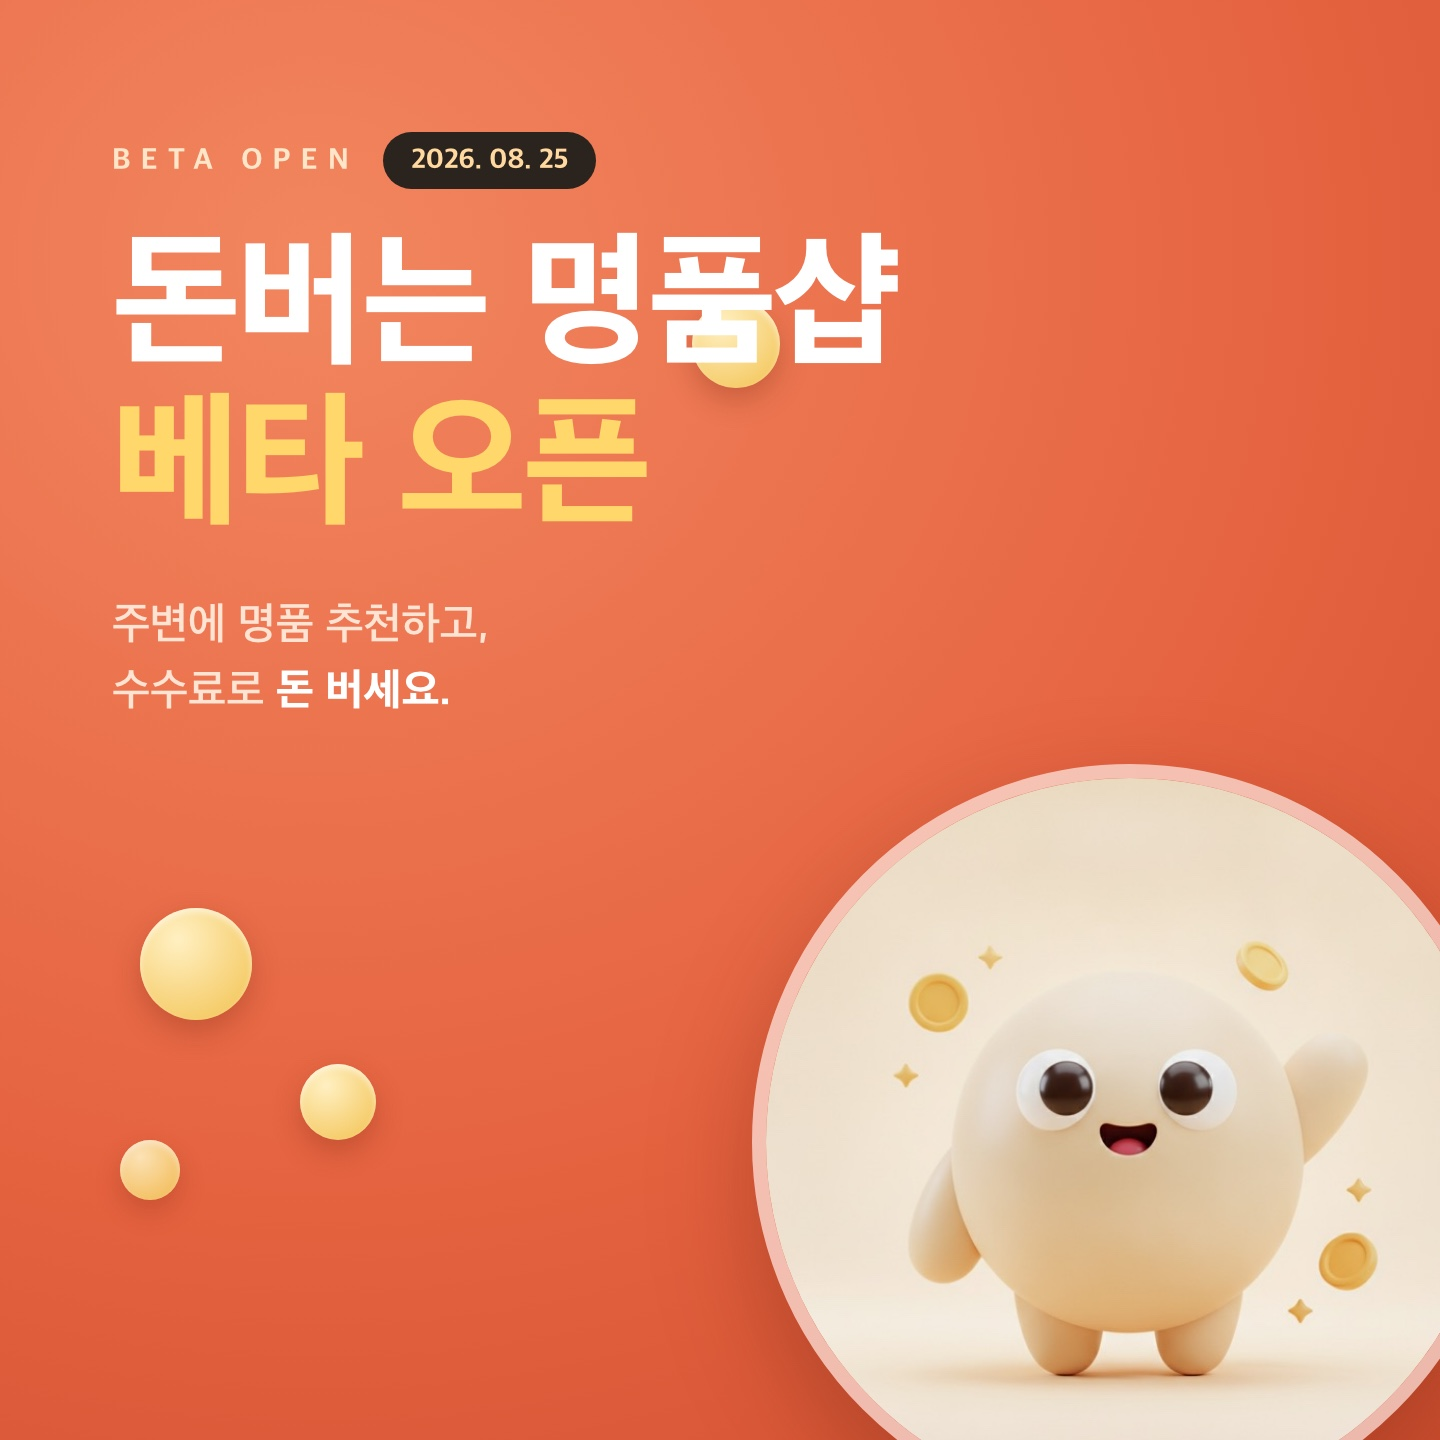
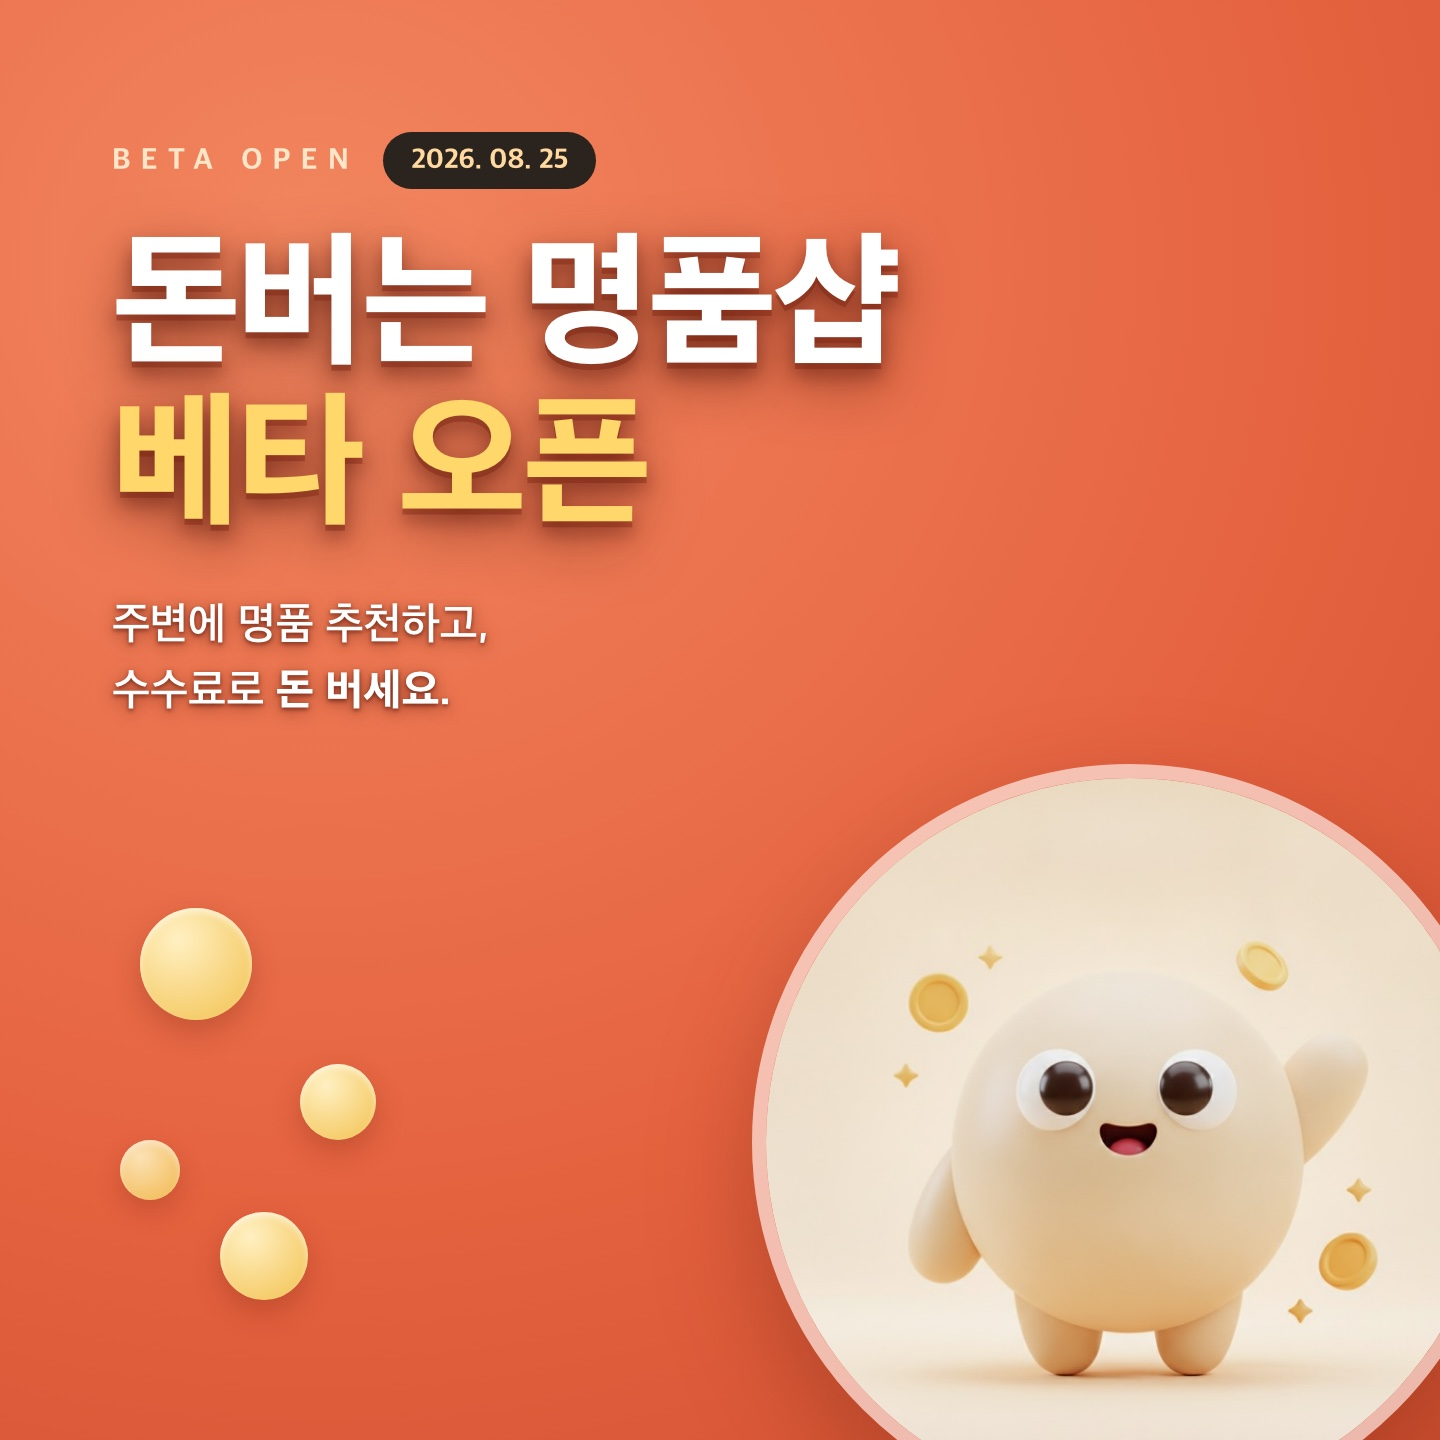
공지 3종(컨시어지/바우처/첫판매20%) 통이미지 + 게시글 실제 CTA 버튼 지원, 배너 글자 그림자 강화

Changed region(s): [[0.0625, 0.1562, 0.6562, 0.5], [0.1562, 0.8438, 0.2188, 0.9062]]

diff --git a/scripts/set_notices3.ts b/scripts/set_notices3.ts
@@ -1,0 +1,59 @@
+// 3개 공지 등록: 컨시어지 / 바우처 / 첫판매20% (통이미지 + 실제 CTA 버튼 마커)
+//   실행: npx tsx scripts/set_notices3.ts
+import "./loadenv";
+import { prisma } from "../src/lib/db";
+
+interface N { title: string; content: string; img: string }
+const NOTICES: N[] = [
+  {
+    title: "컨시어지가 되는 방법",
+    img: "/landing/notice_concierge.jpg",
+    content:
+`돈버는 명품샵에서 판매하는 상품들은 정가 대비 높은 할인율을 갖고 있어 판매하기 쉽습니다.
+
+다만, 판매했을 때 산정되는 수수료 %가 컨시어지와 일반회원이 다릅니다.
+
+일반회원도 컨시어지가 될 수 있어요. 신청하시면 됩니다.
+
+컨시어지는 더 많은 혜택을 받는 만큼 실적이 필요합니다! 실적은 업데이트되며, 컨시어지 전용 게시판을 통해 변동사항이 전달됩니다.
+
+열심히 활동해서 컨시어지에 대한 꿈을 키워보세요!
+
+신청은 마이페이지에서 가능합니다.
+[[CTA:마이페이지에서 신청하기|/me]]`,
+  },
+  {
+    title: "바우처 받는 방법",
+    img: "/landing/notice_voucher.jpg",
+    content:
+`첫 구매에 이어서 또 한 번 20% 수수료를 받을 수 있는 방법!
+(예: 200만원 가방 팔면 40만원 수익)
+
+앱 리뷰나 커뮤니티에 판매 후기글을 작성해주세요. 커뮤니티로 이동해 '글 작성'을 누르고 이미지를 첨부하면 후기 사진을 업로드할 수 있습니다.
+
+판매 후기를 올려주신 분께는 20% 바우처를 드려요.
+
+바우처는 제품 상세페이지에서 적용할 수 있고, 최초 1회 판매에 한해 20% 수수료를 지급해드립니다.
+[[CTA:커뮤니티에 후기 쓰기|/community]]`,
+  },
+  {
+    title: "앱 오픈 기념, 첫 판매 수수료 20%",
+    img: "/landing/notice_firstsale.jpg",
+    content:
+`두근두근 설레는 첫 판매는 20%의 수수료로 측정됩니다.
+
+최초 판매 이후에는 7% 수수료로 고정되고, 컨시어지로 가입하신 분들은 12%가 됩니다.
+[[CTA:상품 둘러보기|/category]]`,
+  },
+];
+
+async function main() {
+  for (const n of NOTICES) {
+    const existing = await prisma.post.findFirst({ where: { title: n.title } });
+    const data = { category: "공지", content: n.content, imagesJson: JSON.stringify([n.img]), pinned: true, published: true };
+    if (existing) { await prisma.post.update({ where: { id: existing.id }, data }); console.log("갱신:", n.title); }
+    else { const p = await prisma.post.create({ data: { title: n.title, ...data } }); console.log("생성:", n.title, p.id); }
+  }
+  console.log("\n✅ 완료. (이미지는 git push 후 표시)");
+}
+main().catch((e) => { console.error("오류:", e instanceof Error ? e.message : e); process.exitCode = 1; }).finally(() => prisma.$disconnect());

diff --git a/src/app/(shop)/board/[id]/page.tsx b/src/app/(shop)/board/[id]/page.tsx
@@ -27,6 +27,11 @@ export default async function BoardDetail({ params }: { params: { id: string } }
   const embed = toEmbedUrl(post.videoUrl);
   const images = parseList(post.imagesJson);
 
+  // 본문 안 [[CTA:라벨|링크]] 마커 → 실제 클릭 버튼으로 렌더 (통이미지엔 버튼을 안 넣고 여기서 처리)
+  const ctaMatch = post.content?.match(/\[\[CTA:([^|\]]+)\|([^\]]+)\]\]/);
+  const cta = ctaMatch ? { label: ctaMatch[1].trim(), url: ctaMatch[2].trim() } : null;
+  const bodyText = (post.content ?? "").replace(/\[\[CTA:[^\]]+\]\]/g, "").trim();
+
   return (
     <div className="mx-auto max-w-2xl px-4 py-6">
       <Link href="/board" className="text-xs text-sub underline">← 목록</Link>
@@ -58,8 +63,17 @@ export default async function BoardDetail({ params }: { params: { id: string } }
         </div>
       )}
 
-      {post.content && (
-        <div className="mt-5 whitespace-pre-wrap text-[15px] leading-relaxed text-ink/85">{post.content}</div>
+      {bodyText && (
+        <div className="mt-5 whitespace-pre-wrap text-[15px] leading-relaxed text-ink/85">{bodyText}</div>
+      )}
+
+      {cta && (
+        <Link
+          href={cta.url}
+          className="mt-6 flex w-full items-center justify-center rounded-full bg-[#e5623f] px-8 py-4 text-base font-black text-white shadow-[0_10px_24px_rgba(201,74,44,0.32)] transition active:scale-[0.98]"
+        >
+          {cta.label} →
+        </Link>
       )}
     </div>
   );
